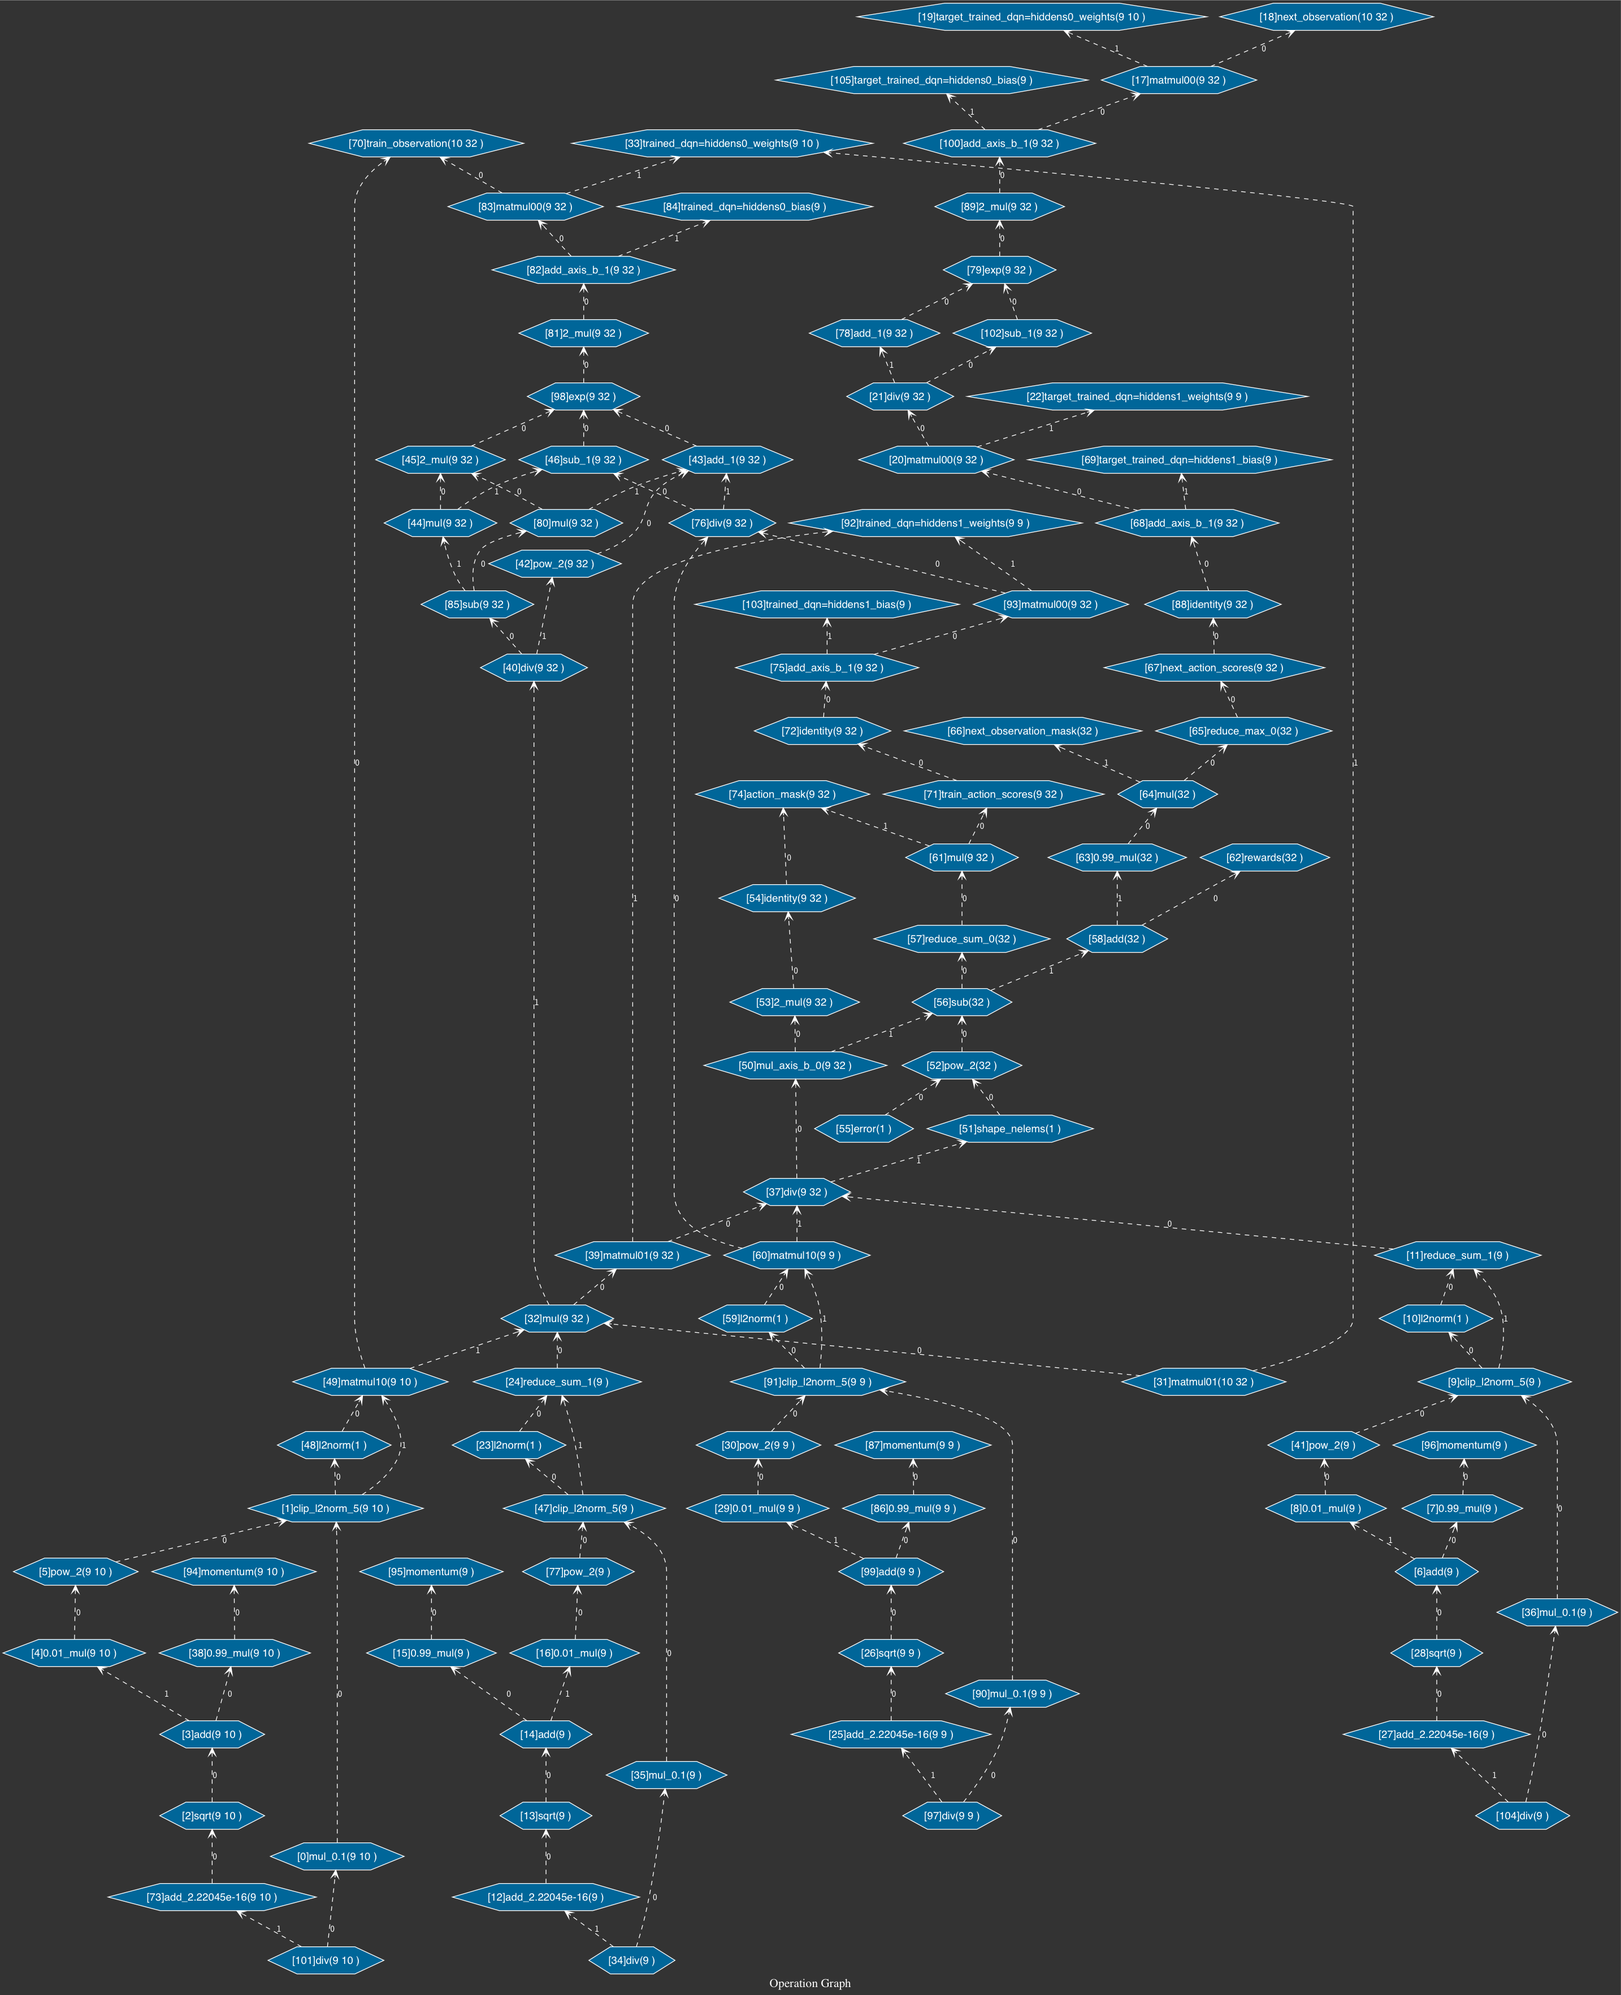
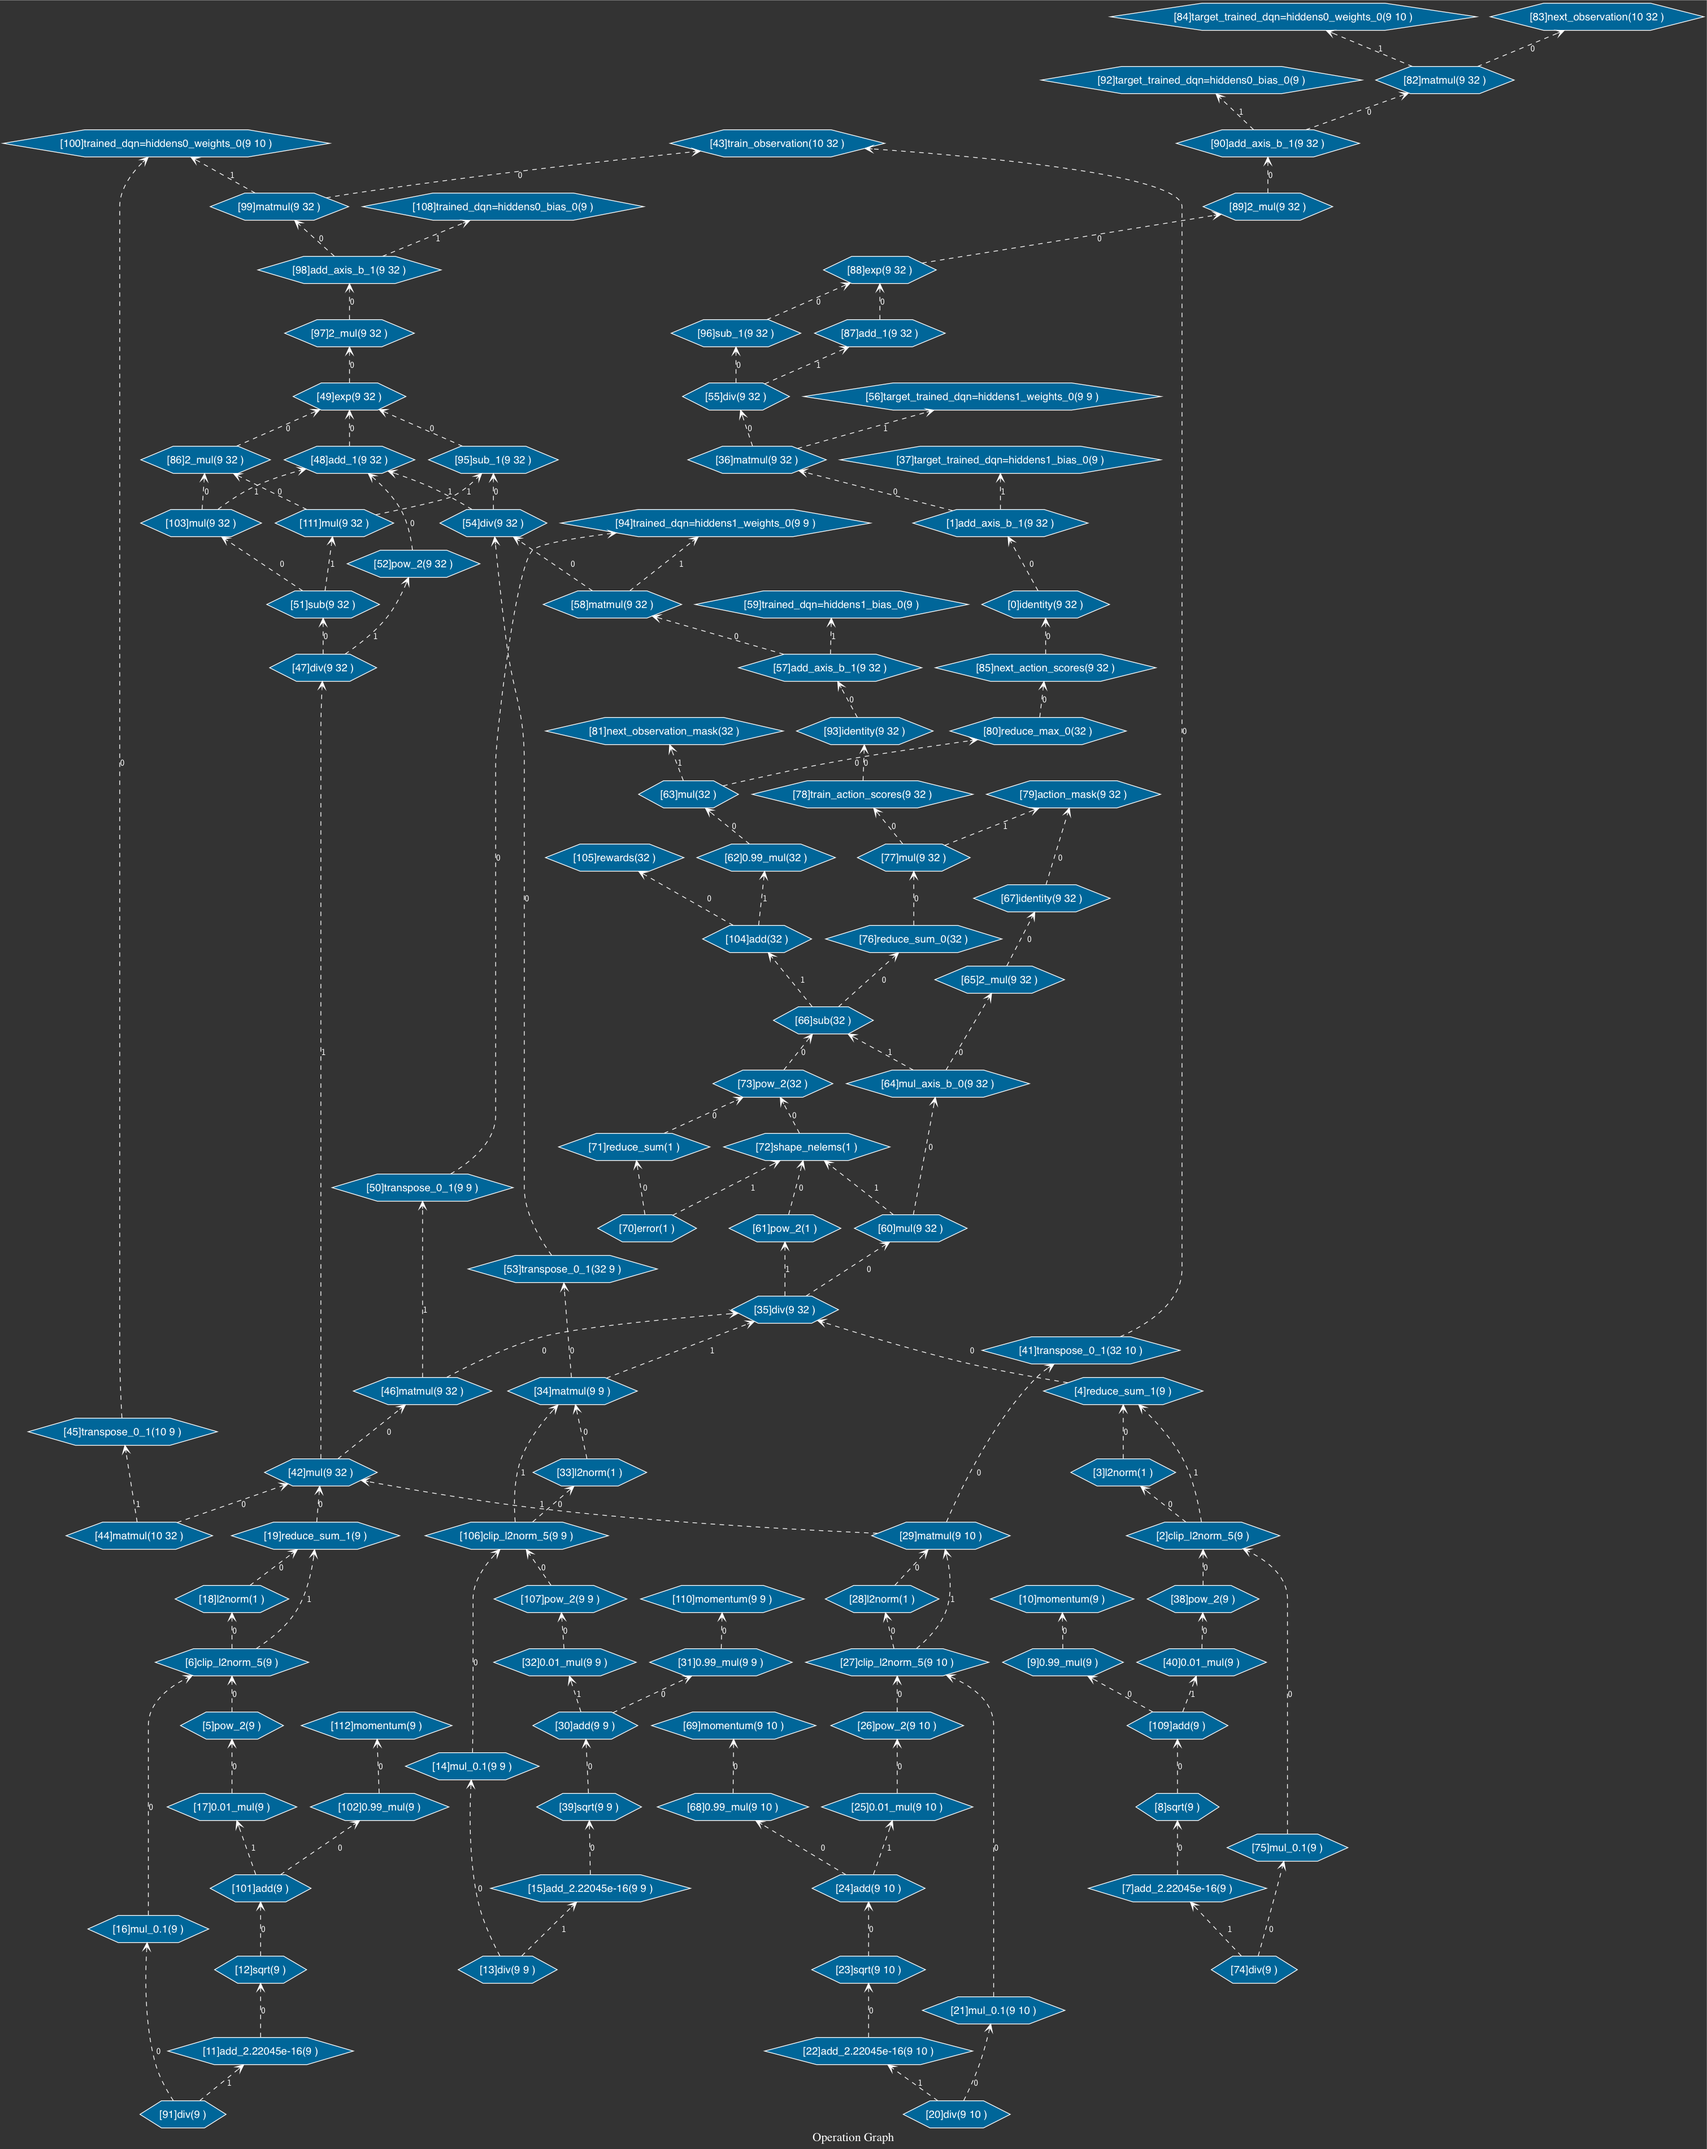
implement reconstruction_cost, code cleanup, and graph updaets

Changed region(s): [[0.0, 0.0, 0.993, 0.9969], [0.7758, 0.6231, 0.993, 0.9346]]

diff --git a/app/rocnnet/src/compounds/rbm.cpp b/app/rocnnet/src/compounds/rbm.cpp
@@ -121,8 +121,6 @@ std::pair<nnet::variable_updater<double>, nnet::varptr<double> > rbm::train (
 		chain_it = persistent;
 	}
 
-	// this series of chaining is implemented from http://deeplearning.net/tutorial/code/rbm.py
-	nnet::varptr<double> final_presig_vis;
 	nnet::varptr<double> final_visible_dist;
 	for (size_t i = 0; i < n_cont_div; i++)
 	{
@@ -130,8 +128,8 @@ std::pair<nnet::variable_updater<double>, nnet::varptr<double> > rbm::train (
 
 		// use operational optimization to recover presig and vis nodes
 		nnet::varptr<double> weighed = nnet::matmul<double>(chain_it, weight_, false, true);
-		final_presig_vis =  nnet::add_axial_b(weighed, nnet::varptr<double>(vbias_), 1);
-		final_visible_dist = nnet::sigmoid<double>(final_presig_vis);
+		nnet::varptr<double> presig_vis =  nnet::add_axial_b(weighed, nnet::varptr<double>(vbias_), 1);
+		final_visible_dist = nnet::sigmoid<double>(presig_vis);
 
 		chain_it = nnet::binomial_sample(1.0, hidden_dist);
 	}
@@ -139,7 +137,8 @@ std::pair<nnet::variable_updater<double>, nnet::varptr<double> > rbm::train (
 	// chain_end is treated like a constant
 	nnet::varptr<double> chain_end = nnet::as_constant(final_visible_sample);
 
-	nnet::varptr<double> cost = nnet::reduce_mean(this->free_energy(&input)) - nnet::reduce_mean(this->free_energy(chain_end));
+	nnet::varptr<double> cost = nnet::reduce_mean(this->free_energy(&input)) -
+								nnet::reduce_mean(this->free_energy(chain_end));
 	nnet::iconnector<double>* cost_icon = static_cast<nnet::iconnector<double>*>(cost.get());
 
 	nnet::varptr<double> dW = cost->derive(weight_);
@@ -155,7 +154,7 @@ std::pair<nnet::variable_updater<double>, nnet::varptr<double> > rbm::train (
 	if (nullptr == persistent)
 	{
 		// reconstruction cost
-		monitoring_cost = this->get_reconstruction_cost(final_presig_vis);
+		monitoring_cost = this->get_reconstruction_cost(input, final_visible_dist);
 	}
 	else
 	{
@@ -243,7 +242,6 @@ nnet::varptr<double> rbm::free_energy (nnet::varptr<double> sample)
 	return -(hidden_term + vbias_term);
 }
 
-// implementation taken from http://deeplearning.net/tutorial/rbm.html
 nnet::varptr<double> rbm::get_pseudo_likelihood_cost (nnet::placeholder<double>& input)
 {
 	// zeros everywhere except for x-axis = x_idx (x is the first dimension)
@@ -258,9 +256,11 @@ nnet::varptr<double> rbm::get_pseudo_likelihood_cost (nnet::placeholder<double>&
 	return nnet::reduce_mean((double) n_input_ * nnet::log(nnet::sigmoid(fe_xi_flip - fe_xi)));
 }
 
-nnet::varptr<double> rbm::get_reconstruction_cost (nnet::varptr<double>& pre_sig_back)
+nnet::varptr<double> rbm::get_reconstruction_cost (nnet::placeholder<double>& input, nnet::varptr<double>& visible_dist)
 {
-	return nullptr;
+	nnet::varptr<double> p_success = nnet::varptr<double>(&input) * nnet::log<double>(visible_dist);
+	nnet::varptr<double> p_not = (1.0 - nnet::varptr<double>(&input)) * nnet::log<double>(1.0 - visible_dist);
+	return nnet::reduce_mean(nnet::reduce_sum(p_success + p_not, 1));
 }
 
 }

diff --git a/app/rocnnet/include/compounds/rbm.hpp b/app/rocnnet/include/compounds/rbm.hpp
@@ -3,6 +3,7 @@
 //  cnnet
 //
 //	Implements Restricted Boltzmann Machine
+//	Setup cost and training follows implemented from http://deeplearning.net/tutorial/code/rbm.py
 //
 //  Created by Mingkai Chen on 2017-07-17.
 //  Copyright © 2017 Mingkai Chen. All rights reserved.
@@ -87,7 +88,7 @@ private:
 	// COST CALCULATIONS
 	nnet::varptr<double> get_pseudo_likelihood_cost (nnet::placeholder<double>& input);
 
-	nnet::varptr<double> get_reconstruction_cost (nnet::varptr<double>& pre_sig_back);
+	nnet::varptr<double> get_reconstruction_cost (nnet::placeholder<double>& input, nnet::varptr<double>& visible_dist);
 
 	size_t n_input_;
 
